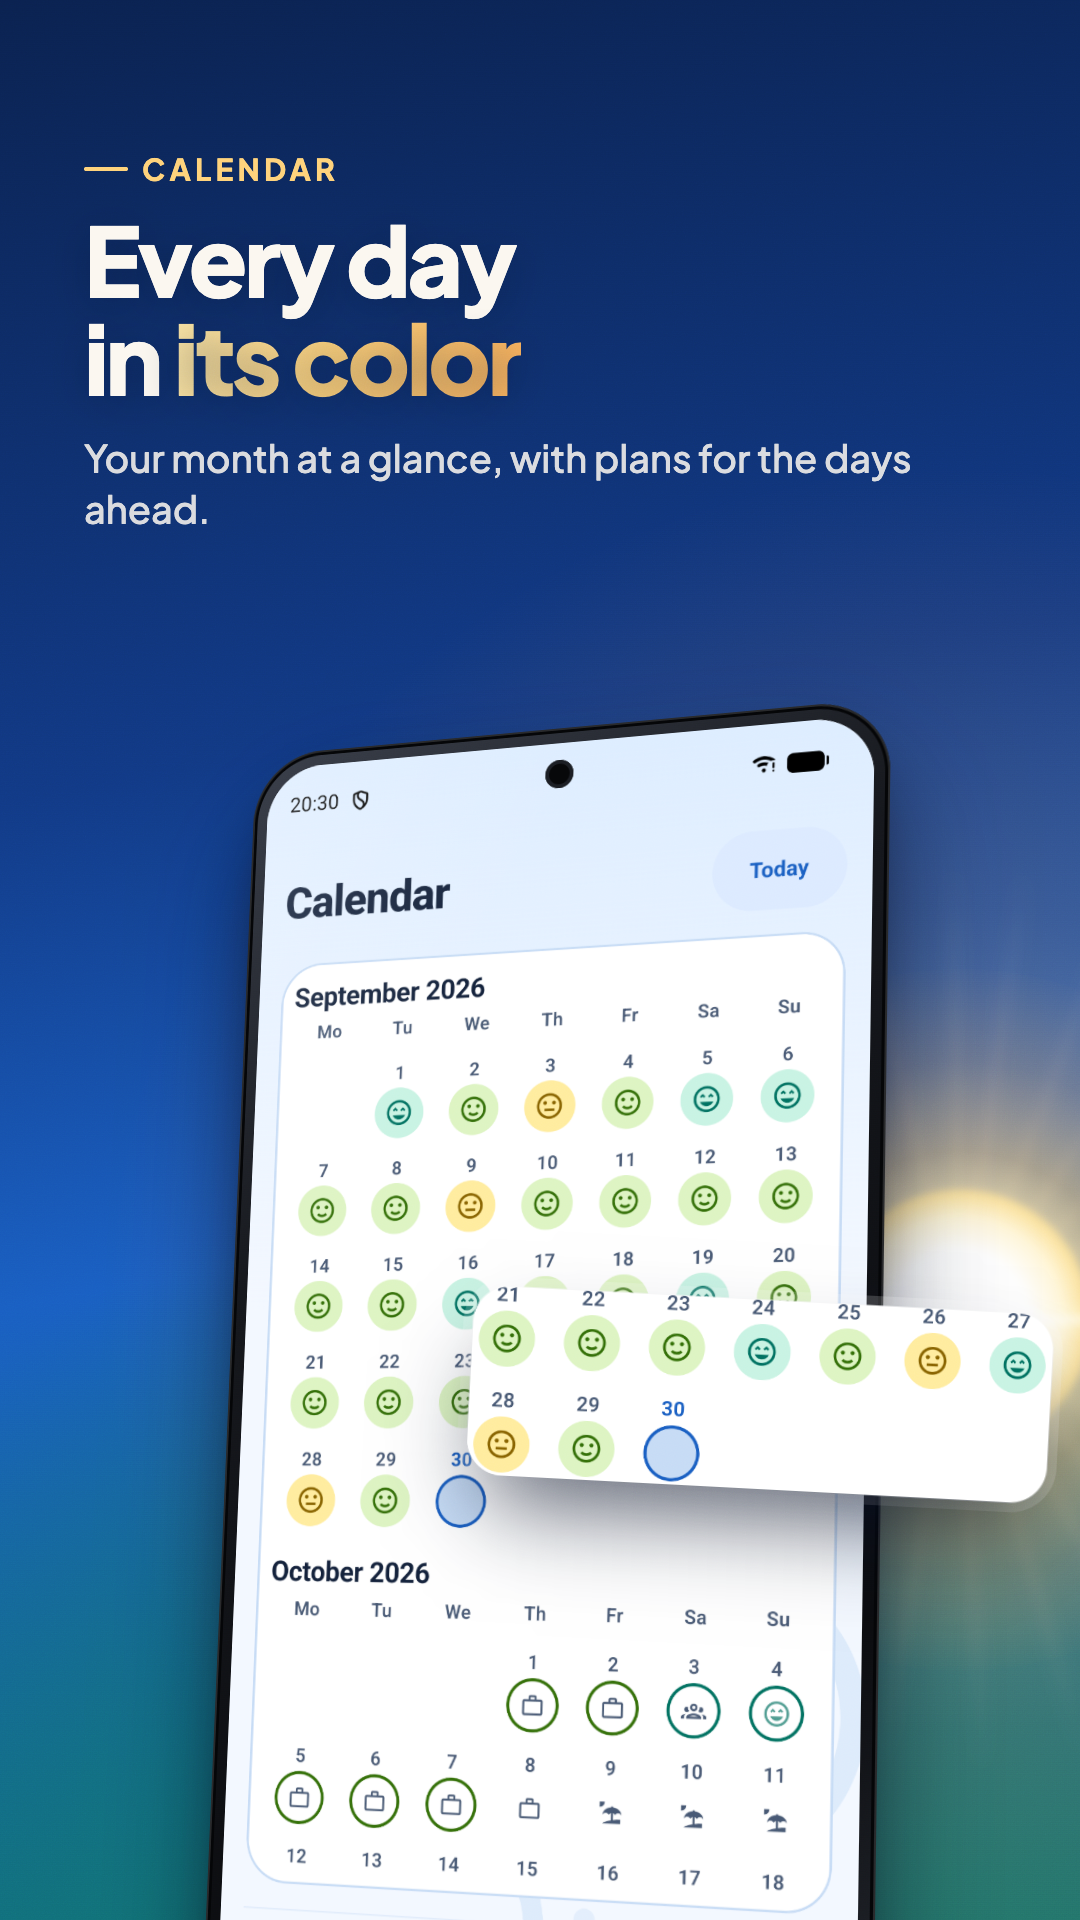
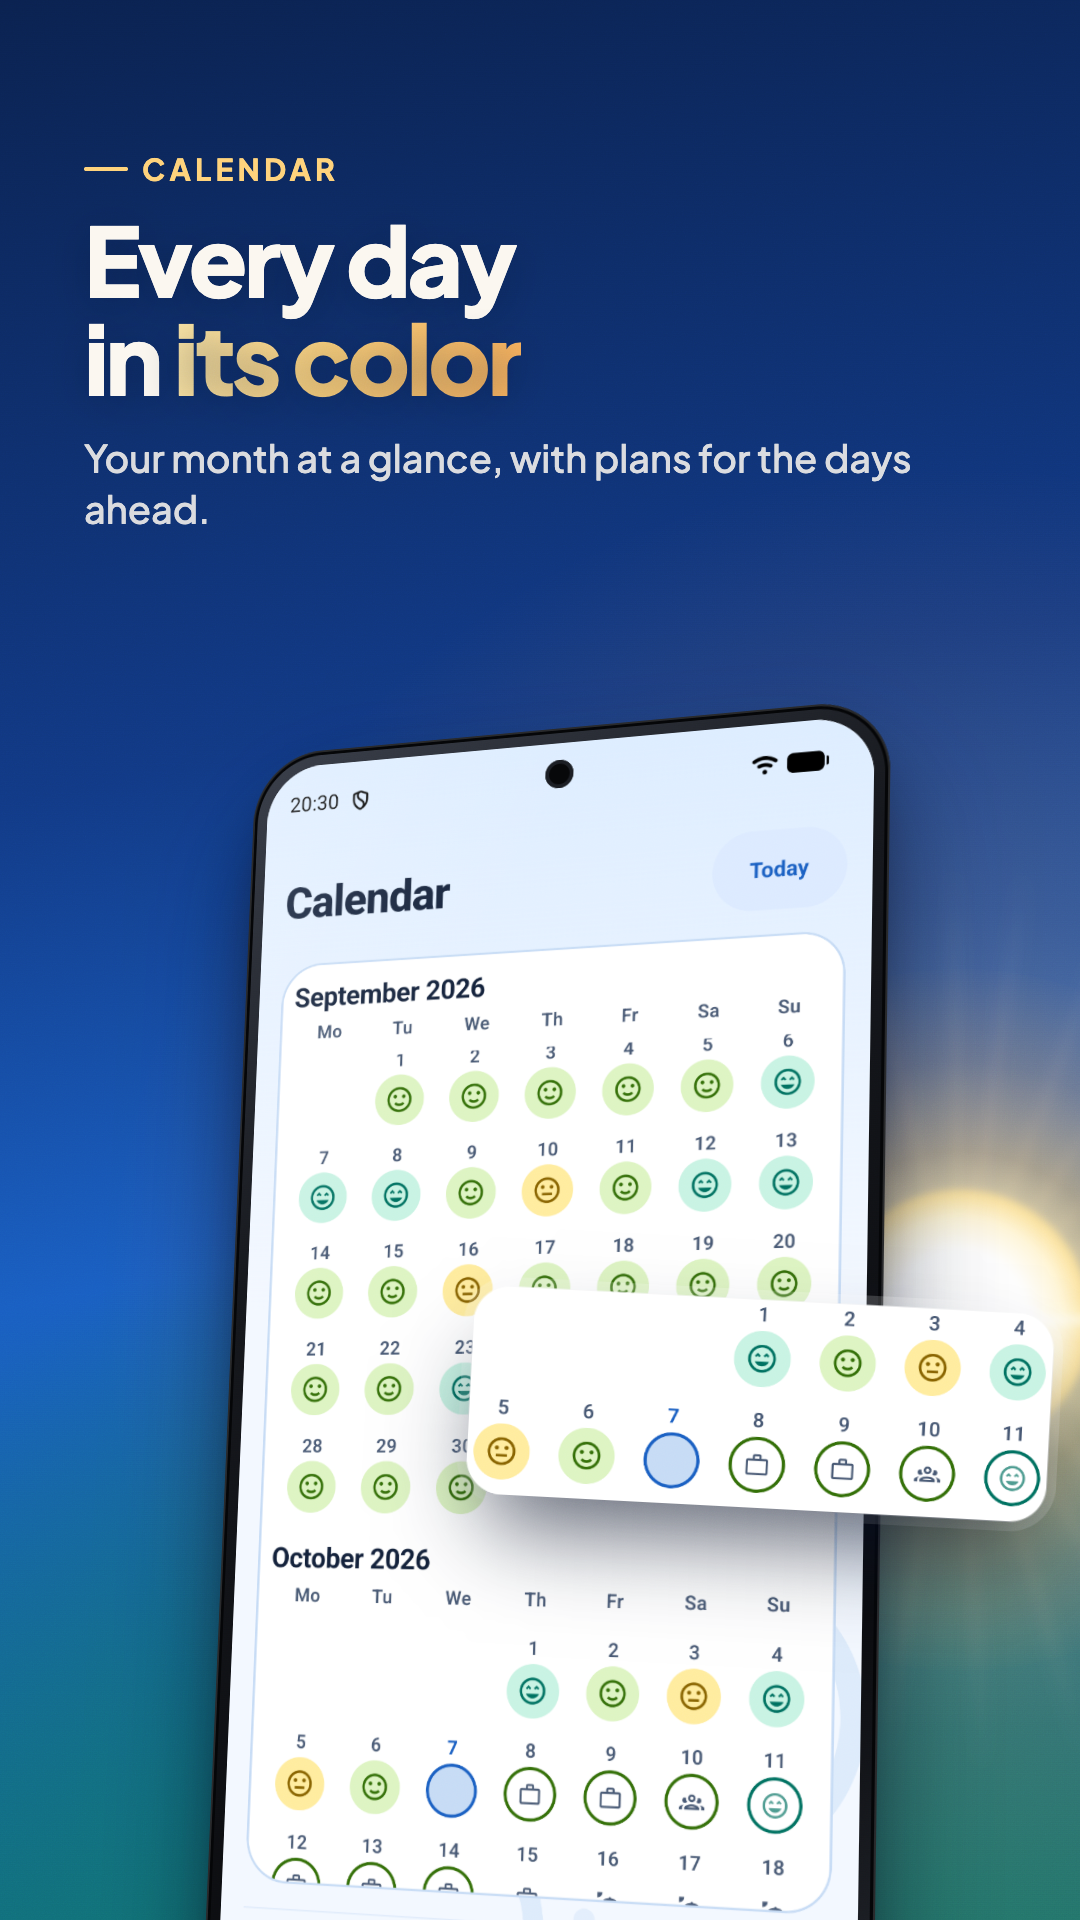
Store-Grafiken mit neuer Fußzeile und Folie zu Wendepunkten
Alle App-Screenshots auf Deutsch und Englisch neu aufgenommen, neue Folie 7 mit dem Vergleich davor und danach, Privat rückt auf Folie 8. Die Ausblick-Ringe im Tagesstreifen sind auf Heute und Ausblick wieder rund. Die Doku beschreibt jetzt, wie Sprache, Datum und runde Ringe im Emulator zuverlässig klappen.

Changed region(s): [[0.2444, 0.5312, 0.9778, 1.0], [0.2444, 0.9062, 0.3667, 1.0]]

diff --git a/store/graphics.html b/store/graphics.html
@@ -134,7 +134,8 @@ const TEXT = {
     4: ['Einblicke', 'Erkenne deine<br><em>Muster</em>', 'Verlauf, Wochentage und was mit guten Tagen zusammenfällt. Beschreibend, nie als Diagnose.'],
     5: ['Jahr in Pixeln', 'Dein Jahr<br>auf <em>einen Blick</em>', 'Jeder Tag ein Pixel. Tippen öffnet den Tag.'],
     6: ['Ausblick', 'Ein <em>ehrlicher</em><br>Blick nach vorn', 'Nur wo die Schätzung auf deinen Daten besser ist als Raten. Sonst sagt Daylight das auch.'],
-    7: ['Privat', 'Bleibt auf<br><em>deinem Handy</em>', 'Deine Einträge liegen nur auf dem Gerät. Sicherungen teilst du selbst, wenn du willst.'],
+    7: ['Wendepunkte', 'Der Tag, der<br><em>alles änderte</em>', 'Gib dem Tag einen Namen. Daylight vergleicht die Zeit davor mit der Zeit danach.'],
+    8: ['Privat', 'Bleibt auf<br><em>deinem Handy</em>', 'Deine Einträge liegen nur auf dem Gerät. Sicherungen teilst du selbst, wenn du willst.'],
     badges: ['Kein Internet', 'Kein Konto', 'Keine Werbung', 'App-Sperre'],
     tagline: 'Dein Stimmungstagebuch.<br>Privat, offline, auf deinem Gerät.',
   },
@@ -145,7 +146,8 @@ const TEXT = {
     4: ['Insights', 'Spot your<br><em>patterns</em>', 'Trends, weekdays and what comes with good days. Descriptive, never a diagnosis.'],
     5: ['Year in pixels', 'Your year<br>at <em>a glance</em>', 'Every day a pixel. Tap one to open the day.'],
     6: ['Outlook', 'An <em>honest</em><br>look ahead', 'Only where the estimate beats guessing on your own data. Otherwise Daylight says so.'],
-    7: ['Private', 'Stays on<br><em>your phone</em>', 'Your entries live only on your device. You share backups yourself, if you want to.'],
+    7: ['Turning points', 'The day that<br><em>changed things</em>', 'Give the day a name. Daylight compares the time before with the time after.'],
+    8: ['Private', 'Stays on<br><em>your phone</em>', 'Your entries live only on your device. You share backups yourself, if you want to.'],
     badges: ['No internet', 'No account', 'No ads', 'App lock'],
     tagline: 'Your mood journal.<br>Private, offline, on your device.',
   },
@@ -291,8 +293,8 @@ const ASSETS = {
       phone('editor.png', { x: 330, y: 700, w: 680, rot: 4 }),
       pop('editor.png', [44, 380, 992, 305], { x: 36, y: 830, w: 760, rot: -3 }),
       LANG === 'en'
-        ? pop('editor.png', [90, 1070, 880, 540], { x: 40, y: 1220, w: 660, rot: -5, radius: 40 })
-        : pop('editor.png', [100, 1070, 640, 680], { x: 60, y: 1200, w: 520, rot: -5, radius: 40 }),
+        ? pop('editor.png', [90, 930, 880, 540], { x: 40, y: 1220, w: 660, rot: -5, radius: 40 })
+        : pop('editor.png', [90, 930, 880, 690], { x: 40, y: 1210, w: 640, rot: -5, radius: 40 }),
     ];
   },
   'shot-3': () => {
@@ -302,7 +304,7 @@ const ASSETS = {
       deco(c, { cx: 960, cy: 1320, r: 460, opacity: .12 }),
       head(150, ...TEXT[3]),
       phone('kalender.png', { x: 200, y: 700, w: 680, persp: 'perspective(2200px) rotateY(-16deg) rotateX(6deg)' }),
-      pop('kalender.png', [80, 1060, 920, 300], { x: 470, y: 1300, w: 580, rot: 3, radius: 36 }),
+      pop('kalender.png', [80, 1530, 920, 330], { x: 470, y: 1300, w: 580, rot: 3, radius: 36 }),
     ];
   },
   'shot-4': () => {
@@ -340,9 +342,20 @@ const ASSETS = {
   'shot-7': () => {
     const c = { w: W, h: H };
     return [
+      sky(c, { sunX: 1000, sunY: 370, sunR: 88 }),
+      deco(c, { cx: 1000, cy: 370, r: 370, opacity: .12 }),
+      head(150, ...TEXT[7]),
+      phone('vergleich.png', { x: 330, y: 760, w: 680, rot: 3 }),
+      pop('vergleich-verlauf.png', [42, LANG === 'en' ? 393 : 469, 994, 720], { x: 24, y: 1000, w: 560, rot: -4, radius: 34 }),
+      pop('vergleich.png', [42, 1932, 994, LANG === 'en' ? 326 : 282], { x: 30, y: 1560, w: 760, rot: -2, radius: 36 }),
+    ];
+  },
+  'shot-8': () => {
+    const c = { w: W, h: H };
+    return [
       sky(c, { sunX: 975, sunY: 115, sunR: 90 }),
       deco(c, { cx: 975, cy: 115, r: 360, opacity: .12 }),
-      head(150, ...TEXT[7]),
+      head(150, ...TEXT[8]),
       (() => { const b = el('div', { class: 'badges', style: { top: px(720) } }); b.append(...['wifi', 'user', 'ad', 'lock'].map((icon, i) => badge(icon, TEXT.badges[i]))); return b; })(),
       phone('verlauf.png', { x: 200, y: 1010, w: 680, rot: -3 }),
     ];

diff --git a/docs/development.md b/docs/development.md
@@ -75,7 +75,7 @@ Das Skript rastert mit `npx @resvg/resvg-js-cli` in fester Version; npx lädt es
 
 ## Store-Grafiken
 
-App-Icon (512 × 512), Feature Graphic (1024 × 500) und sieben Screenshots (1080 × 1920) für Google Play liegen auf Deutsch und Englisch in `fastlane/metadata/android/de-DE/images/` und `en-US/images/`, der Ordnerstruktur von fastlane supply, die auch F-Droid liest. Quelle ist die Vorlage `store/graphics.html` mit den App-Screenshots aus `store/screens/de/` und `store/screens/en/`. Neu rendern mit headless Chrome:
+App-Icon (512 × 512), Feature Graphic (1024 × 500) und acht Screenshots (1080 × 1920) für Google Play liegen auf Deutsch und Englisch in `fastlane/metadata/android/de-DE/images/` und `en-US/images/`, der Ordnerstruktur von fastlane supply, die auch F-Droid liest. Quelle ist die Vorlage `store/graphics.html` mit den App-Screenshots aus `store/screens/de/` und `store/screens/en/`. Neu rendern mit headless Chrome:
 
 ```bash
 node scripts/store-graphics.mjs
@@ -83,7 +83,16 @@ node scripts/store-graphics.mjs
 
 Einzelne Grafik im Browser ansehen: `store/graphics.html?asset=shot-3&lang=en` (oder `icon`, `feature`; ohne `lang` Deutsch).
 
-Die App-Screenshots stammen aus dem Pixel-9-Emulator mit den Beispieldaten, die in der Sprache der App geladen werden. Vorher die App-Sprache setzen (`adb shell cmd locale set-app-locales de.behla.daylight --locales en-US`), dann erst die Daten zurücksetzen und „Beispieldaten laden“, sonst tragen Stimmungen und Gruppen die Namen der anderen Sprache. Uhr und Statusleiste über den Demo-Modus der System-UI auf 20:30 festsetzen.
+Die App-Screenshots stammen aus dem Pixel-9-Emulator mit den Beispieldaten, die in der Sprache der App geladen werden, sonst tragen Stimmungen und Gruppen die Namen der anderen Sprache. Je Sprache die App-Daten leeren und die Sprache vor dem ersten Start setzen, denn eine in der App gewählte Sprache hat Vorrang vor `set-app-locales`:
+
+```bash
+adb shell pm clear de.behla.daylight
+adb shell cmd locale set-app-locales de.behla.daylight --locales en-US
+```
+
+Dann „Beispieldaten laden“ und die App einmal neu starten, erst dann stimmen Daten und Wochentage. Datum (7. Oktober 2026) und 24-Stunden-Format in den Einstellungen des Emulators setzen, Uhr und Statusleiste über den Demo-Modus der System-UI auf 20:30 festsetzen.
+
+Auf dem Emulator (Android 37) zeichnet der Tagesstreifen unter „Heute“ die Ausblick-Ringe der kommenden Tage direkt nach dem Start eckig statt rund. Vor Aufnahmen mit dem Streifen ihn deshalb weit in die Vergangenheit und zurück wischen, einen vergangenen Tag antippen und dann „Heute“, danach sind die Ringe rund.
 
 ## Release
 
